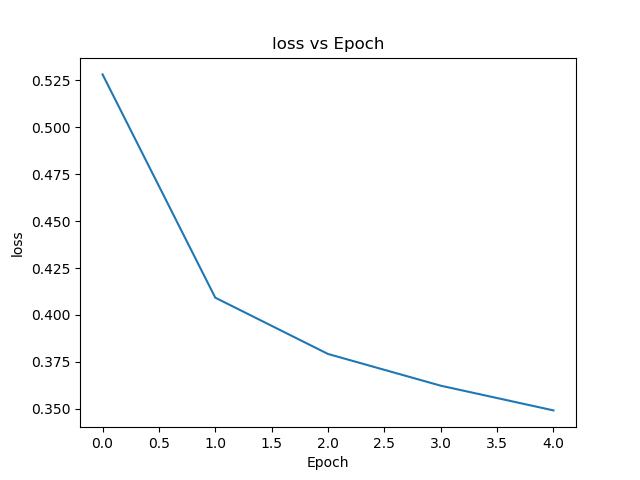
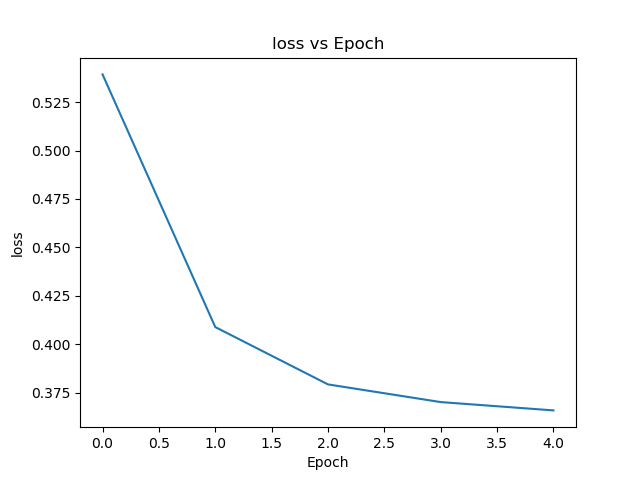
auto encoder polishing

diff --git a/Week 14 - AutoEncoders/Submission_1.py b/Week 14 - AutoEncoders/Submission_1.py
@@ -9,11 +9,14 @@ input_img = Input(shape=(784,))
 # "encoded" is the encoded representation of the input
 encoded = Dense(encoding_dim, activation='relu')(input_img)
 
-# one more hidden layer
-encoded = Dense(encoding_dim, activation='relu')(encoded)
+# make deep
+encoded = Dense(int(encoding_dim /2), activation='relu')(encoded)
+encoded = Dense(int(encoding_dim /4), activation='relu')(encoded) # middle layer
+decoded = Dense(int(encoding_dim /2), activation='relu')(encoded)
 
 # "decoded" is the lossy reconstruction of the input
-decoded = Dense(784, activation='sigmoid')(encoded)
+decoded = Dense(784, activation='sigmoid')(decoded)
+
 # this model maps an input to its reconstruction
 autoencoder = Model(input_img, decoded)
 # this model maps an input to its encoded representation
